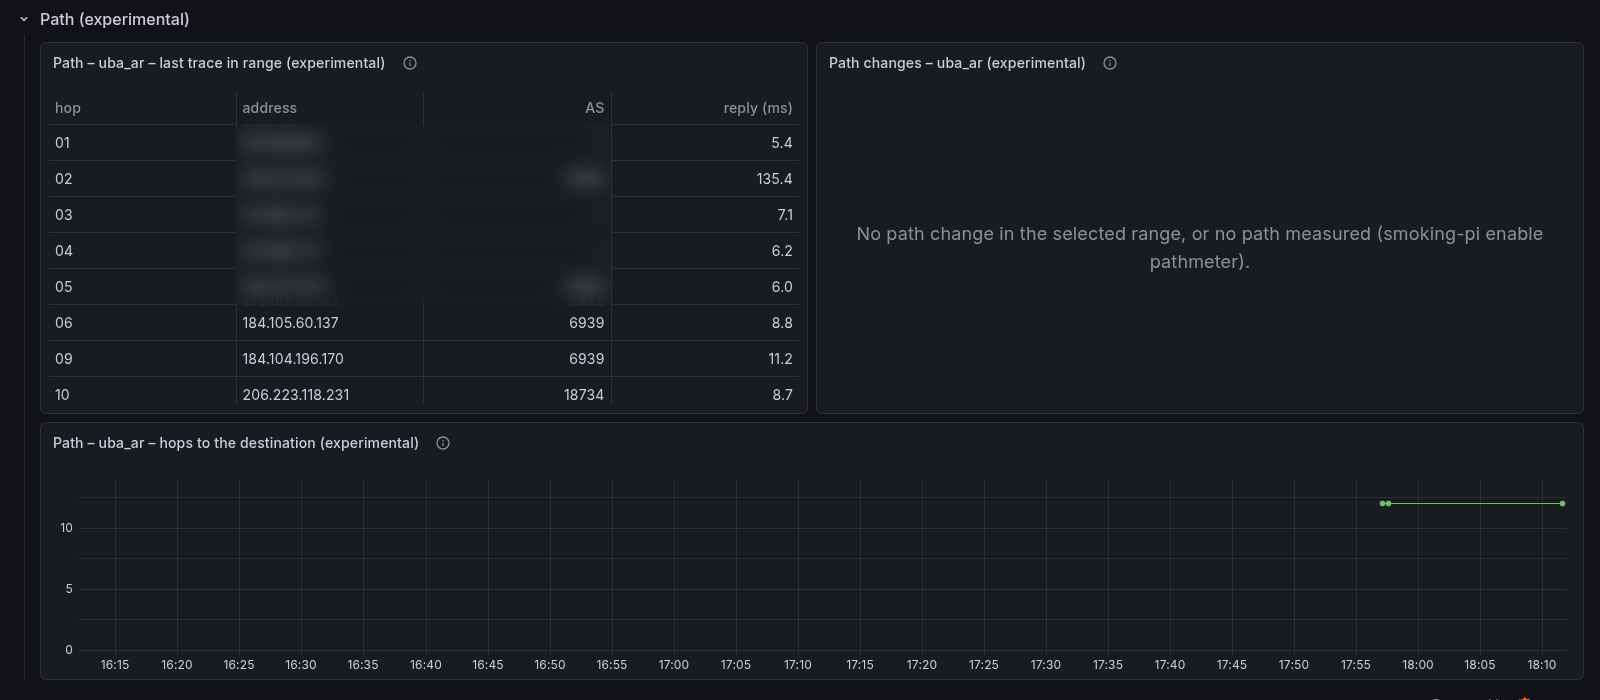
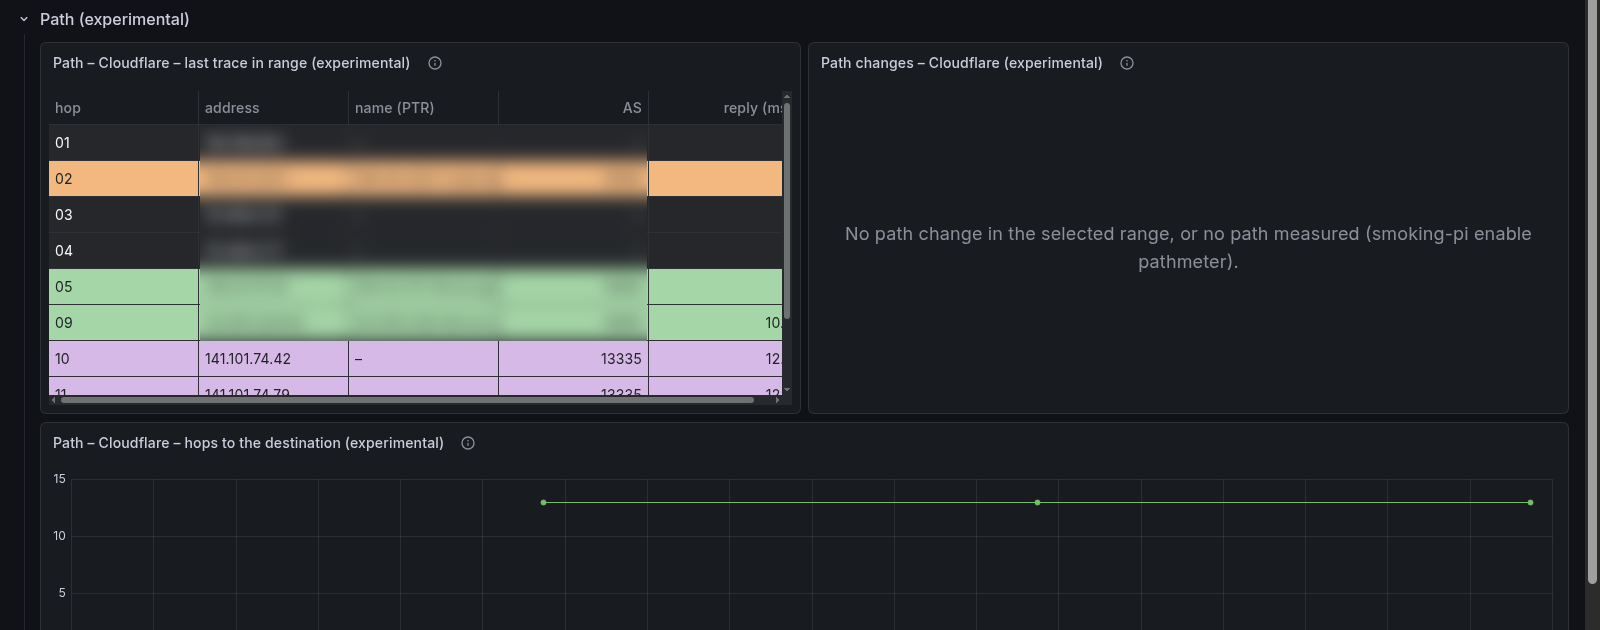
feat(grafana): the path's hops read by network, one color per AS and gray for private hops
Target Detail's last-trace table colors each row by its AS (AS number
modulo twelve colors, computed in the panel's Flux), so a run of hops in
one network reads as one block on every target; hops with no AS or a
private, CGNAT, loopback, link-local or ULA address are gray.

diff --git a/docs/path.md b/docs/path.md
@@ -141,7 +141,7 @@ done.
 
 On **Target Detail**, the collapsed **Path (experimental)** row:
 
-![Target Detail's Path row: the last trace to uba_ar, hop by hop with each hop's AS, no change in the range, and the destination ten hops away](img/path-row.png)
+![Target Detail's Path row: the last trace to Cloudflare, hop by hop, each network's hops in its own color and the house's own hops blurred; no change in the range, and the destination thirteen hops away](img/path-row.png)
 
 
 - **Last trace in range**: hop, address, AS and reply time of the last
@@ -149,6 +149,16 @@ On **Target Detail**, the collapsed **Path (experimental)** row:
   as it was then. Hops that did not answer are left out. The shared first
   hops of a destination traced past them show their addresses but no reply
   time: only one destination probed them that cycle.
+
+  Each row takes its network's color, so a run of hops in one AS reads as
+  one block and the hand-off from one network to the next stands out. The
+  color comes from the AS number (the AS number modulo the twelve colors),
+  so a network has the same color on every target and every refresh; two
+  networks can still share one, so read the AS column when two blocks of
+  one color touch. Hops with no AS, and private (RFC 1918), CGNAT
+  (100.64.0.0/10), loopback, link-local and ULA addresses, are gray.
+
+  ![Two last traces, dark and light theme: the house's private hops in gray, its access network in orange, Google Fiber in green, then Cloudflare in purple and Facebook in red; the house's own hops blurred](img/path-hops.png)
 - **Path changes**: when the AS path, the hops or the address changed in
   the range.
 - **Hops to the destination**: how far the destination answered, per trace.

diff --git a/CHANGELOG.md b/CHANGELOG.md
@@ -32,6 +32,17 @@ version gets a matching GitHub release and git tag.
   room for it whether an episode is under way or not. Pro with InfluxDB,
   IPv4, opt-in with the path meter ([The path to each
   destination](path.md#during-a-loss-episode)).
+- **The path reads by network.** Target Detail's last-trace table listed
+  every hop in the same color, so finding where the house's provider hands
+  off to a transit network, or to the destination's own, meant reading the
+  AS column row by row. Each row now takes its AS's color, the same on every
+  target and refresh (the AS number modulo twelve colors, computed in the
+  panel's query; six dark and six light, so neighbors also differ in
+  lightness, each bright or dark enough that Grafana picks a legible text
+  color in the dark and light themes). Hops with no AS, or with a private,
+  CGNAT, loopback, link-local or ULA address, are gray. Twelve colors cannot
+  keep every pair of networks apart: of the 28 adjacent pairs on the
+  reference house's paths, only Telia and Hurricane Electric share one.
 
 ### Changed
 
